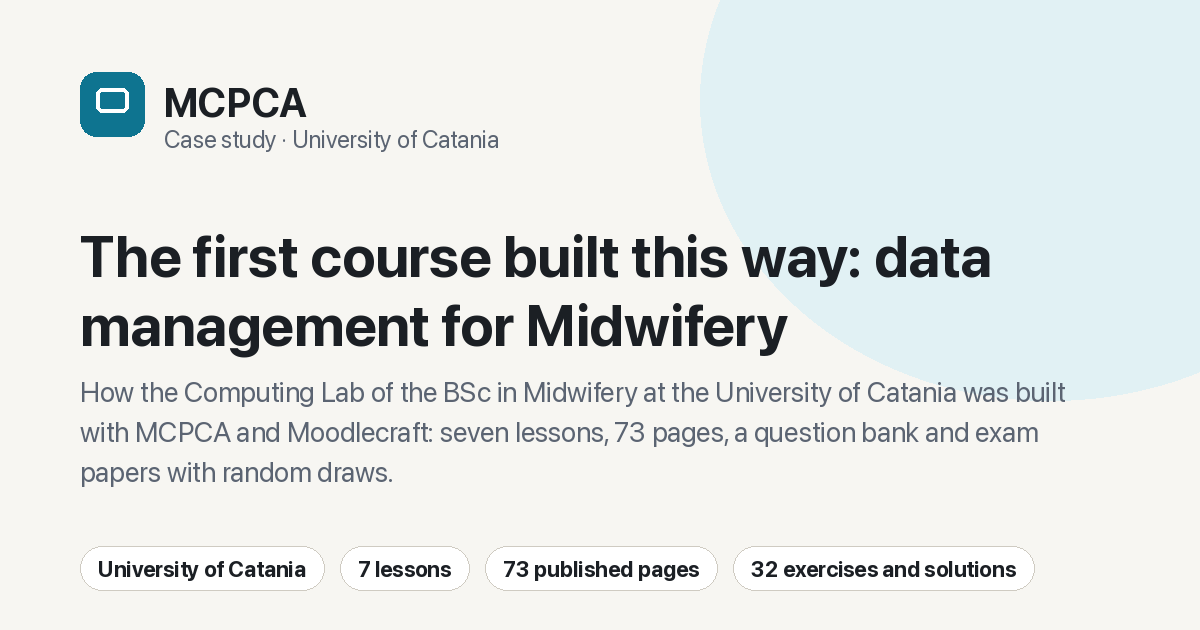
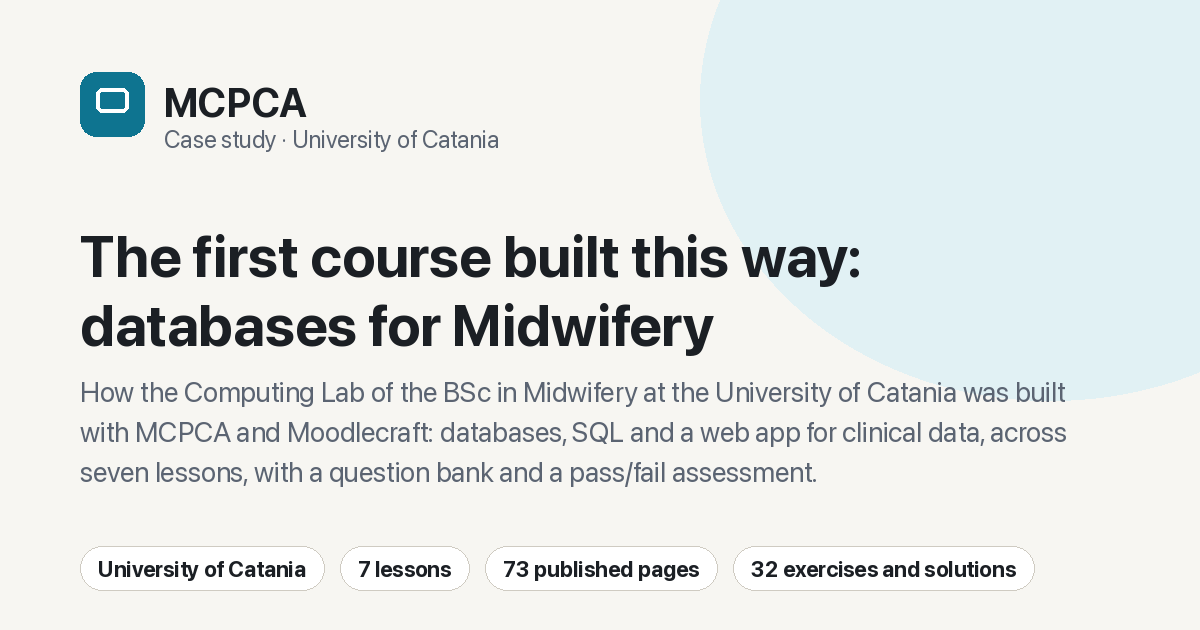
feat: rewrite the case study against the published syllabus
The title said the course was about 'data management', which left open whose
data and what for. The syllabus answers it: analysing a real information need in
a healthcare setting, on patient records, the register of births, staff rotas.

- new title and opening, named from the syllabus: databases and clinical data
- the facts card gains workload (seven lab sessions, ~21 hours, attendance
  required) and assessment (pass/fail, practical test at the computer)
- the exam step now states the 60% pass the syllabus prescribes and the optional
  APEX project; the syllabus step links to the published course unit description
- new [text](url) content marker, the only HTML allowed in the content files

Changed region(s): [[0.0617, 0.6635, 0.8942, 0.7841], [0.0617, 0.4825, 0.6783, 0.573], [0.7092, 0.3619, 0.8325, 0.4524]]

diff --git a/build.py b/build.py
@@ -42,6 +42,10 @@ PAGES = [
 # lunghi: **portante**, _inciso_, ==frase da notare==, `codice`. Non è Markdown
 # completo ed è di proposito: niente HTML nei contenuti, niente link nascosti.
 INLINE = [
+    # [testo](https://…) è l'unico modo di mettere un collegamento nei contenuti:
+    # solo http/https, niente altro HTML, così il testo resta testo.
+    (re.compile(r"\[([^\[\]]+)\]\((https?://[^\s)]+)\)"),
+     r'<a href="\2" rel="noopener">\1</a>'),
     # [[MCPCA]] marca il nome del progetto: colore d'accento, peso pieno e mai
     # spezzato a fine riga. Si usa alla prima menzione di una pagina, non ovunque.
     (re.compile(r"\[\[(.+?)\]\]"), r'<span class="product">\1</span>'),

diff --git a/README.md b/README.md
@@ -67,6 +67,7 @@ converte in HTML (`build.py`, funzione `rich`):
 | `==testo==` | evidenziato in accento | la frase che deve fermare l'occhio |
 | `` `testo` `` | monospaziato | un nome di file, un comando, SQL |
 | `[[MCPCA]]` | nome del progetto in evidenza | la prima menzione in una pagina, non tutte |
+| `[testo](https://…)` | collegamento | l'unico HTML ammesso nei contenuti, solo http/https |
 
 Servono a spezzare i blocchi lunghi. Non è Markdown completo ed è voluto:
 nessun HTML nei file di contenuto, quindi nessun link o markup arbitrario.
